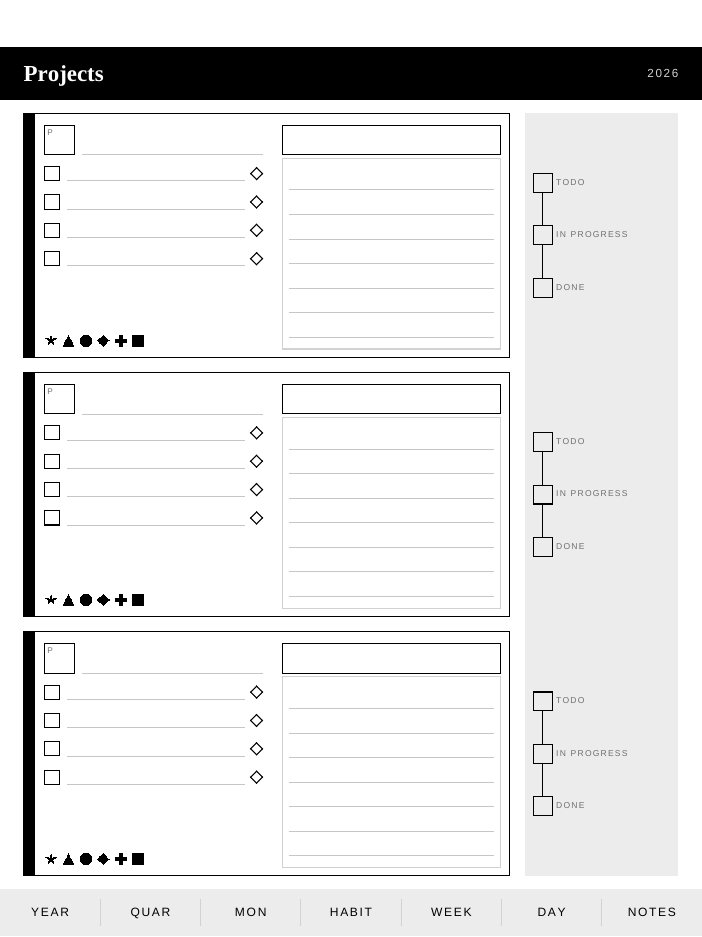
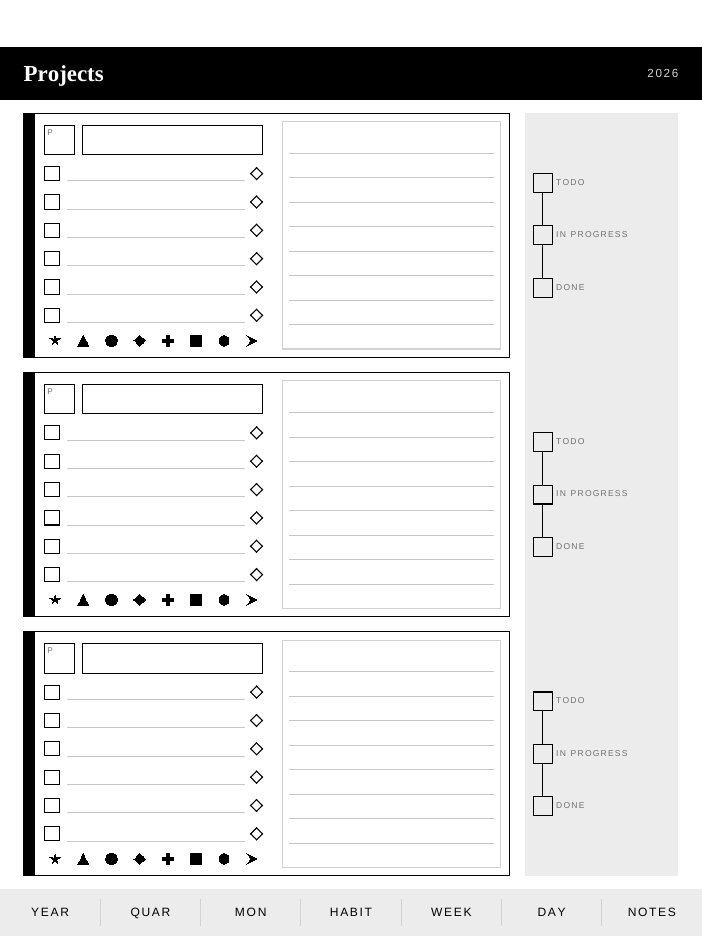
Seat the name box beside P and grow the clone notes well.
Border moves from above the notes to the field next to P. Notes take
the full right column. Left ticks fill to the strip; hexagon and
chevron join an even 8-icon spread.

diff --git a/src/parch/layouts/planner/painters.py b/src/parch/layouts/planner/painters.py
@@ -291,15 +291,48 @@ CLONE_STRIP_H = 2.8
 CLONE_STAR = 2.0
 CLONE_TRACK_H = 26.0
 CLONE_STATUS_LABELS = ("Todo", "In Progress", "Done")
-CLONE_ICONS = ("star", "triangle", "circle", "diamond", "plus", "square")
+CLONE_ICONS = (
+    "star",
+    "triangle",
+    "circle",
+    "diamond",
+    "plus",
+    "square",
+    "hexagon",
+    "chevron",
+)
 CLONE_P_PAD = 0.40
 CLONE_P_CORNER = (2.15, 1.85)
 CLONE_P_SIZE = 5.2
+CLONE_NAME_GAP = 1.4
+CLONE_TASK_TOP = 0.4
+CLONE_TASK_CLEAR = 0.55
 
 
 def clone_icon_cluster_width(n: int = len(CLONE_ICONS)) -> float:
-    """Tight left-packed strip: n icons + (n-1) gaps. No full-card spread."""
+    """Minimum packed width of the icon set (spread uses the full strip seat)."""
     return n * CLONE_ICON + max(n - 1, 0) * CLONE_ICON_GAP
+
+
+def clone_task_count(box: Rect) -> int:
+    """Focus rows that fill ``box``, with clearance above the symbol strip."""
+    usable = box.h - CLONE_TASK_TOP - CLONE_TASK_CLEAR
+    if usable < TICK:
+        return 1
+    return max(1, int((usable - TICK) / FOCUS_PITCH) + 1)
+
+
+def projects_clone_a_name_field(header: Rect) -> tuple[Rect, Rect]:
+    """P square and the bordered name field beside it."""
+    y = header.y + (header.h - PROJECT_P) / 2
+    mark = Rect(header.x, y, PROJECT_P, PROJECT_P)
+    field = Rect(
+        mark.right + CLONE_NAME_GAP,
+        y,
+        max(header.right - mark.right - CLONE_NAME_GAP, 1),
+        PROJECT_P,
+    )
+    return mark, field
 
 
 def projects_clone_a_well(well: Rect) -> tuple[Rect, Rect]:
@@ -314,28 +347,27 @@ def projects_clone_a_seats(well: Rect, cards: int) -> tuple[tuple[Rect, ...], tu
 
 
 def projects_clone_a_card(card: Rect) -> tuple[Rect, Rect, Rect, Rect, Rect, Rect]:
-    """spine, P+name, secondary, tasks, notes (full right), left-packed icon cluster."""
+    """spine, header, name field, tasks, notes (full right), icon strip (left)."""
     spine = Rect(card.x, card.y, CLONE_SPINE_W, card.h)
     body = Rect(card.x + CLONE_SPINE_W, card.y, card.w - CLONE_SPINE_W, card.h).inset(
         CLONE_INSET_X, CLONE_INSET_Y
     )
-    left, right = columns(body, 2, gap=CLONE_COL_GAP, weights=CLONE_CARD_WEIGHTS)
+    left, notes = columns(body, 2, gap=CLONE_COL_GAP, weights=CLONE_CARD_WEIGHTS)
     name_h, left_rest = left.split_top(PROJECT_HEADER_H)
-    secondary, notes = right.split_top(PROJECT_HEADER_H)
+    _, name_field = projects_clone_a_name_field(name_h)
     mid = Rect(
         left_rest.x,
         left_rest.y + PROJECT_LEFT_GAP,
         left_rest.w,
         left_rest.h - PROJECT_LEFT_GAP,
     )
-    tasks, strip_band = rows(
+    tasks, strip = rows(
         mid,
         2,
         gap=PROJECT_LEFT_GAP,
         weights=(mid.h - CLONE_STRIP_H - PROJECT_LEFT_GAP, CLONE_STRIP_H),
     )
-    strip = Rect(strip_band.x, strip_band.y, clone_icon_cluster_width(), strip_band.h)
-    return spine, name_h, secondary, tasks, notes, strip
+    return spine, name_h, name_field, tasks, notes, strip
 
 
 def paint_projects_clone_faithful(plotter: Plotter, box: Rect, board: ProjectsBoard) -> None:
@@ -348,18 +380,11 @@ def paint_projects_clone_faithful(plotter: Plotter, box: Rect, board: ProjectsBo
     cards, rails = projects_clone_a_seats(box, board.cards)
     _wash(plotter, projects_clone_a_well(box)[1], WASH)
     for card, rail in zip(cards, rails, strict=True):
-        spine, name_h, secondary, tasks, notes, strip = projects_clone_a_card(card)
+        spine, name_h, name_field, tasks, notes, strip = projects_clone_a_card(card)
         plotter.rect(spine, stroke=False, fill=True, fill_gray=INK)
         _paint_clone_priority(plotter, name_h)
-        sec_y = secondary.y + (secondary.h - PROJECT_P) / 2
-        plotter.rect(
-            Rect(secondary.x, sec_y, secondary.w, PROJECT_P),
-            stroke=True,
-            fill=False,
-            stroke_width=HAIR,
-            stroke_gray=INK,
-        )
-        _paint_clone_tasks(plotter, tasks, board.tasks)
+        plotter.rect(name_field, stroke=True, fill=False, stroke_width=HAIR, stroke_gray=INK)
+        _paint_clone_tasks(plotter, tasks)
         _paint_note_box(plotter, notes)
         _paint_clone_icon_strip(plotter, strip)
         _paint_clone_status_track(plotter, rail)
@@ -368,8 +393,7 @@ def paint_projects_clone_faithful(plotter: Plotter, box: Rect, board: ProjectsBo
 
 def _paint_clone_priority(plotter: Plotter, header: Rect) -> float:
     """P-box: muted corner-fraction label, leftover is write-in. Clone only."""
-    y = header.y + (header.h - PROJECT_P) / 2
-    mark = Rect(header.x, y, PROJECT_P, PROJECT_P)
+    mark, _field = projects_clone_a_name_field(header)
     plotter.rect(mark, stroke=True, fill=False, stroke_width=HAIR, stroke_gray=INK)
     cw, ch = CLONE_P_CORNER
     plotter.text(
@@ -381,22 +405,14 @@ def _paint_clone_priority(plotter: Plotter, header: Rect) -> float:
         align="left",
         small_caps=True,
     )
-    rule_y = mark.bottom
-    plotter.line(
-        mark.right + 1.4,
-        rule_y,
-        header.right,
-        rule_y,
-        stroke_width=RULE,
-        stroke_gray=RULE_C,
-    )
-    return rule_y
+    return mark.bottom
 
 
-def _paint_clone_tasks(plotter: Plotter, box: Rect, n: int) -> None:
-    y = box.y + 0.4
+def _paint_clone_tasks(plotter: Plotter, box: Rect, n: int | None = None) -> None:
+    count = clone_task_count(box) if n is None else max(1, n)
+    y = box.y + CLONE_TASK_TOP
     star_right = box.right - CLONE_STAR - 1.0
-    for _ in range(max(1, n)):
+    for _ in range(count):
         _paint_focus_row(plotter, box.x, y, star_right)
         star = Rect(
             box.right - CLONE_STAR,
@@ -409,8 +425,8 @@ def _paint_clone_tasks(plotter: Plotter, box: Rect, n: int) -> None:
 
 
 def _paint_clone_icon_strip(plotter: Plotter, box: Rect) -> None:
-    """Filled icons, left-packed on tracks.columns — no frames, no full-card spread."""
-    slots = columns(box, len(CLONE_ICONS), gap=CLONE_ICON_GAP)
+    """Filled icons, even spread on tracks.columns across the strip seat."""
+    slots = columns(box, len(CLONE_ICONS), gap=1.3)
     for slot, kind in zip(slots, CLONE_ICONS, strict=True):
         s = min(CLONE_ICON, slot.h - 0.2, slot.w)
         icon = Rect(slot.x + (slot.w - s) / 2, slot.y + (slot.h - s) / 2, s, s)
@@ -443,6 +459,10 @@ def _paint_clone_icon(plotter: Plotter, box: Rect, kind: str) -> None:
             _fill_triangle(plotter, box)
         case "star":
             _fill_star(plotter, box)
+        case "hexagon":
+            _fill_hexagon(plotter, box)
+        case "chevron":
+            _fill_chevron(plotter, box)
         case _:
             raise ValueError(f"unknown clone icon {kind!r}")
 
@@ -496,12 +516,8 @@ def _fill_triangle(plotter: Plotter, box: Rect) -> None:
     _fill_span_rows(plotter, spans, dy)
 
 
-def _fill_star(plotter: Plotter, box: Rect) -> None:
-    cx = box.x + box.w / 2
-    cy = box.y + box.h / 2
-    r = min(box.w, box.h) / 2
-    pts = _star_poly(cx, cy, r)
-    ys, dy = _scan_box(box, n=13)
+def _fill_poly(plotter: Plotter, box: Rect, pts: list[tuple[float, float]], *, n: int = 12) -> None:
+    ys, dy = _scan_box(box, n=n)
     spans: list[tuple[float, float, float]] = []
     for y in ys:
         xs = _poly_xs_at(pts, y)
@@ -509,6 +525,37 @@ def _fill_star(plotter: Plotter, box: Rect) -> None:
         for i in range(0, len(xs) - 1, 2):
             spans.append((y - dy / 2, xs[i], xs[i + 1]))
     _fill_span_rows(plotter, spans, dy)
+
+
+def _fill_star(plotter: Plotter, box: Rect) -> None:
+    cx = box.x + box.w / 2
+    cy = box.y + box.h / 2
+    _fill_poly(plotter, box, _star_poly(cx, cy, min(box.w, box.h) / 2), n=13)
+
+
+def _fill_hexagon(plotter: Plotter, box: Rect) -> None:
+    """Pointy-top hexagon — distinct from square and diamond."""
+    cx = box.x + box.w / 2
+    cy = box.y + box.h / 2
+    r = min(box.w, box.h) / 2
+    pts = [
+        (cx + r * math.cos(math.radians(-90 + i * 60)), cy + r * math.sin(math.radians(-90 + i * 60)))
+        for i in range(6)
+    ]
+    _fill_poly(plotter, box, pts)
+
+
+def _fill_chevron(plotter: Plotter, box: Rect) -> None:
+    """Right-pointing filled chevron (notched arrow), not a point-up triangle."""
+    cy = box.y + box.h / 2
+    notch = box.w * 0.36
+    pts = [
+        (box.x, box.y),
+        (box.right, cy),
+        (box.x, box.bottom),
+        (box.x + notch, cy),
+    ]
+    _fill_poly(plotter, box, pts)
 
 
 def _star_poly(cx: float, cy: float, r: float) -> list[tuple[float, float]]:

diff --git a/tests/test_projects.py b/tests/test_projects.py
@@ -19,7 +19,7 @@ from parch.layouts.planner.painters import (
     PROJECT_STATUS_H,
     PROJECT_STATUS_MARK,
     TICK,
-    clone_icon_cluster_width,
+    clone_task_count,
     paint_header,
     paint_nav,
     paint_projects,
@@ -171,26 +171,35 @@ def test_projects_clone_a_tracks():
     assert cards[0].y == pytest.approx(rails[0].y)
     assert cards[-1].bottom == pytest.approx(rails[-1].bottom)
 
-    spine, name_h, secondary, tasks, notes, strip = projects_clone_a_card(cards[0])
+    spine, name_h, name_field, tasks, notes, strip = projects_clone_a_card(cards[0])
     assert spine.x == pytest.approx(cards[0].x)
     assert spine.w == pytest.approx(CLONE_SPINE_W)
     assert spine.h == pytest.approx(cards[0].h)
     assert name_h.x > spine.right
-    assert secondary.x > name_h.right
-    assert name_h.y == pytest.approx(secondary.y)
+    assert name_field.x > name_h.x
+    assert name_field.right == pytest.approx(name_h.right)
+    assert name_field.h == pytest.approx(PROJECT_P)
     assert tasks.x == pytest.approx(name_h.x)
     assert tasks.y > name_h.bottom
-    assert notes.x == pytest.approx(secondary.x)
-    assert notes.y == pytest.approx(secondary.bottom)
+    assert notes.x > name_h.right
+    assert notes.y == pytest.approx(name_h.y)
+    assert notes.h > name_h.h + tasks.h
     assert strip.y > tasks.bottom
     assert strip.x == pytest.approx(tasks.x)
-    assert strip.w == pytest.approx(clone_icon_cluster_width())
-    assert strip.w < tasks.w
+    assert strip.w == pytest.approx(tasks.w)
     assert strip.h == pytest.approx(CLONE_STRIP_H)
     assert notes.bottom == pytest.approx(strip.bottom)
-    assert notes.h > strip.h * 4
     assert notes.right < cards[0].right
-    assert CLONE_ICONS == ("star", "triangle", "circle", "diamond", "plus", "square")
+    assert CLONE_ICONS == (
+        "star",
+        "triangle",
+        "circle",
+        "diamond",
+        "plus",
+        "square",
+        "hexagon",
+        "chevron",
+    )
 
 
 def test_projects_clone_faithful_paint():
@@ -235,7 +244,9 @@ def test_projects_clone_faithful_paint():
         for op in plotter.ops
         if op[0] == "rect" and op[2] and not op[3] and op[1].w == pytest.approx(TICK)
     ]
-    assert len(ticks) == 3 * 4
+    _, _, _, tasks, _, _ = projects_clone_a_card(projects_clone_a_seats(well, 3)[0][0])
+    assert len(ticks) == 3 * clone_task_count(tasks)
+    assert clone_task_count(tasks) > 4
 
     marks = [
         op
